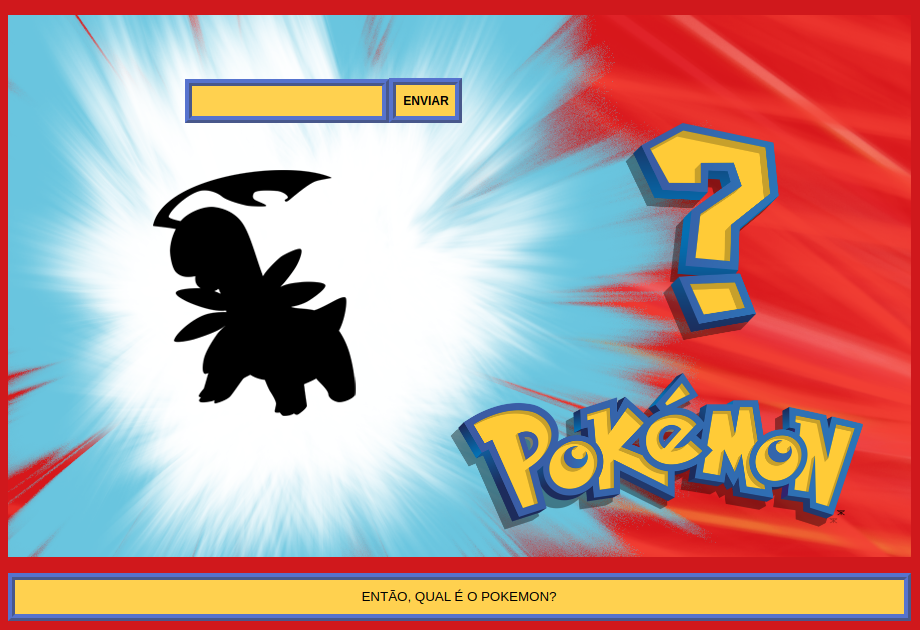
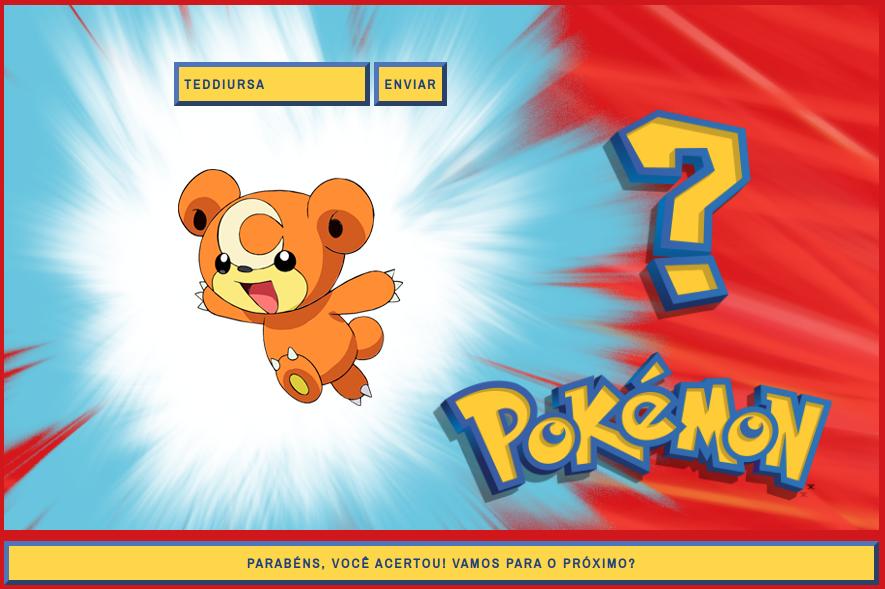
Inclusao pagina web jogo pokemon

diff --git a/projetos-pessoais.html b/projetos-pessoais.html
@@ -46,7 +46,7 @@
             <img id="play" src="./imagens/pokemon.png" alt="Jogo: Qual é esse Pokémon?">
             <p><strong>Descrição:</strong> Desenvolvido um jogo para adivinhar qual o Pokémon de acordo com a sombra apresentada. Ao iniciar, basta digitar o nome do Pokémon, clicar em enviar para saber se acertou ou não e tentar outro. Esse projeto ainda está em fase de desenvolvimento.</p>
             <div>
-              <a href="https://github.com/TabataSouto/pokemon-game">Github</a>
+              <a href="https://github.com/TabataSouto/pokemon-game">Github</a><a href="https://tabatasouto.github.io/pokemon-game/">Modelo web</a>
             </div>
           </div>
 

diff --git a/contato.html b/contato.html
@@ -27,7 +27,7 @@
       <section id="desc">
         <div id="container-texto">
 
-          <p>Envie seu comentário sobre o que achou do meu portfólio. O que acharam legal, ou o que poderia melhorar. Sejam elogios ou criticas construtivas, será muito bem-vindo.</p>
+          <p>Diz o que achou do meu portfólio. Dicas ou sugestões para melhorias, de tudo o que foi feito aqui, o que achou mais interessante ou legal. Sejam elogios ou criticas construtivas, será muito bem-vindo.</p>
 
           <form action="https://formsubmit.co/tabatac.souto@gmail.com" method="post" id="form">
 
